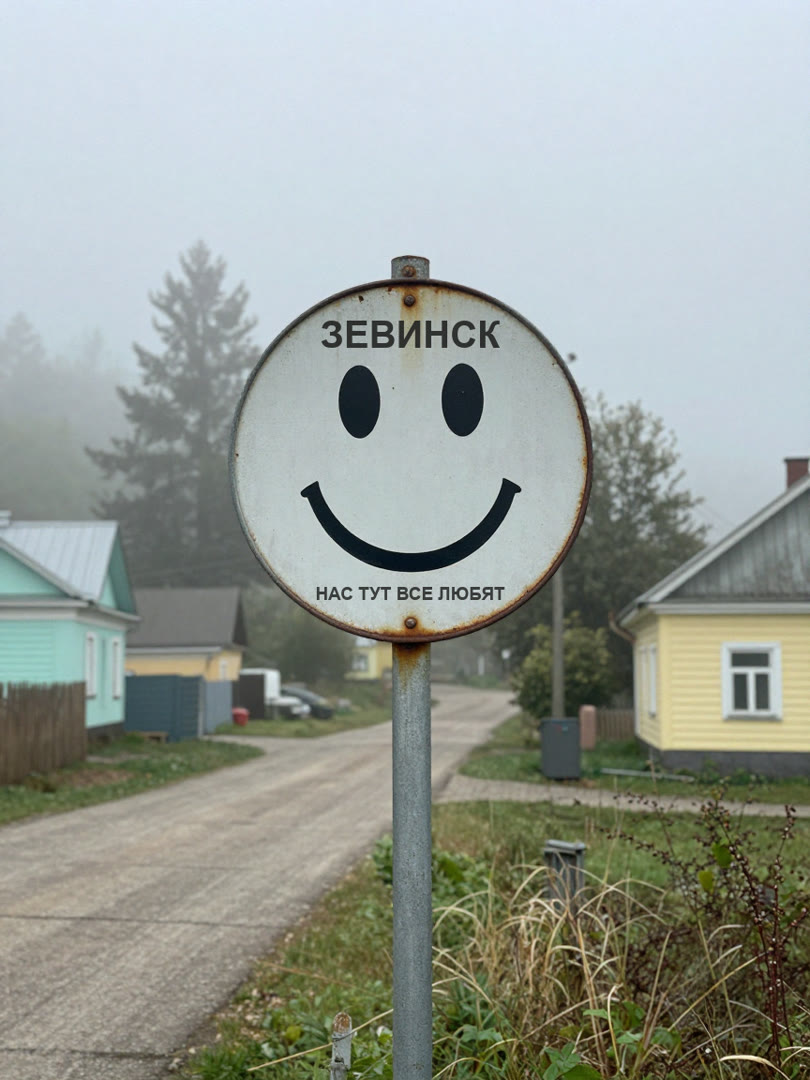
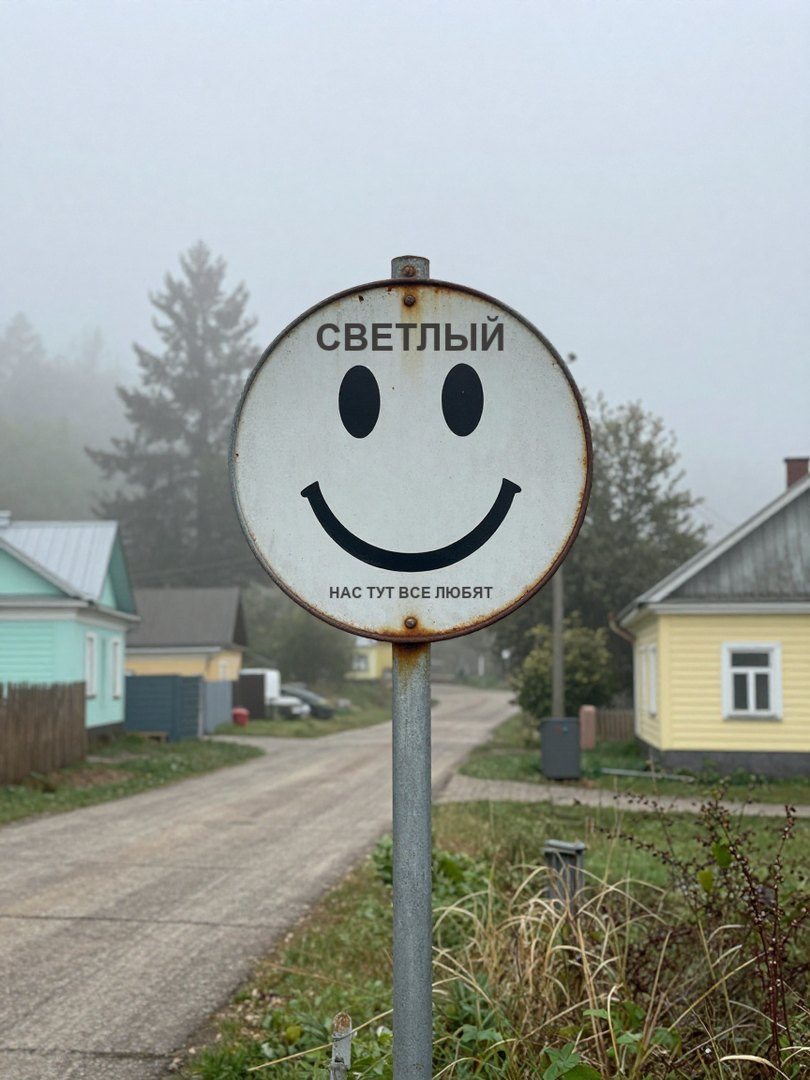
Зевинск переименован в посёлок «Светлый»: тексты серий, табличка, Wi-Fi

Changed region(s): [[0.3704, 0.275, 0.6481, 0.3361], [0.4938, 0.5194, 0.6173, 0.5806], [0.4012, 0.5194, 0.4938, 0.5806]]

diff --git a/js/parser.js b/js/parser.js
@@ -188,7 +188,7 @@ export function parseStory(text) {
   story.isGroup = story.type.toLowerCase().startsWith('гр');
   if (!story.chatTitle) story.chatTitle = story.isGroup ? story.title : (story.others[0] || story.title);
 
-  // Серии: «Сериал: Зевинск» + «Серия: 2», или название вида «Зевинск. Серия 2: Вежливые»
+  // Серии: «Сериал: Светлый» + «Серия: 2», или название вида «Светлый. Серия 2: Вежливые»
   if (!story.series || !story.episode) {
     const sm2 = story.title.match(/^(.*?)[\s.,:—-]*серия\s*(\d+)/i);
     if (sm2 && sm2[1].trim()) {

diff --git a/js/intro.js b/js/intro.js
@@ -3,7 +3,7 @@
 import { h, pushOverlay, popOverlay } from './ui.js';
 import { play, vibrate, unlockAudio } from './sounds.js';
 
-// «Зевинск. Серия 1: Фура» → { series: 'Зевинск', ep: 1, name: 'Фура' }
+// «Светлый. Серия 1: Фура» → { series: 'Светлый', ep: 1, name: 'Фура' }
 export function introParts(story) {
   const title = story.title || '';
   const m = title.match(/серия\s*\d+\s*[:.—–-]\s*(.+)$/i);

diff --git a/ФОРМАТ_ИСТОРИИ.md b/ФОРМАТ_ИСТОРИИ.md
@@ -28,7 +28,7 @@
 | `Сериал:` | название сериала, если история — одна из серий | нет |
 | `Серия:` | номер серии (1, 2, 3…) | нет |
 
-**Серии.** Если у истории есть `Сериал:` и `Серия:` (или название вида «Зевинск. Серия 2: Вежливые»), приложение связывает серии: в конце серии появляются кнопки «▶ Следующая серия» (если она есть) и «Продолжение следует…» (чёрный экран с надписью — удобно для конца видео). Доверие и всё «запомненное» из конца серии переходят в следующую серию, поэтому в серии 2 можно писать `если номер_фуры -> …` про выборы из серии 1.
+**Серии.** Если у истории есть `Сериал:` и `Серия:` (или название вида «Светлый. Серия 2: Вежливые»), приложение связывает серии: в конце серии появляются кнопки «▶ Следующая серия» (если она есть) и «Продолжение следует…» (чёрный экран с надписью — удобно для конца видео). Доверие и всё «запомненное» из конца серии переходят в следующую серию, поэтому в серии 2 можно писать `если номер_фуры -> …` про выборы из серии 1.
 
 ## 2. Персонажи
 
